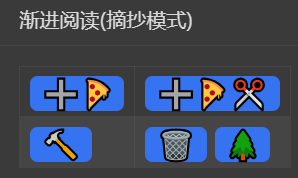
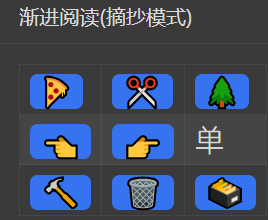
auto

diff --git a/README_zh_CN.md b/README_zh_CN.md
@@ -18,7 +18,7 @@
 
 阅读时为了尽量不打断阅读，可以先摘抄觉得好的内容，所摘抄的内容会在后续闪卡复习时出现。
 
-选中多行然后使用`Alt+Z -> ➕🍕` 或者 `Alt+Z -> ➕🍕✂ 按照标点断句`。
+选中多行然后使用`Alt+Z -> 🍕摘抄` 或者 `Alt+Z -> ✂ 摘抄并按照标点断句`。
 
 可对摘抄进行再摘抄，可无限套娃。
 
@@ -50,7 +50,16 @@
 
 推荐使用`番茄工具箱`的`toolbar`中的`闪卡按钮`。这种`tab`的方式复习闪卡，可以方便做摘抄。
 
-## 闪卡转移策略
+## 闪卡转移策略(多)
+
+每个摘抄都制卡。
+
+> `Alt+Z -> 🗃` 可以切换为`单`模式。
+> 每本书籍有自己的`闪卡转移策略`。
+
+## 闪卡转移策略(单)
+
+> `Alt+Z -> 🗃` 可以切换为`多`模式。
 
 每做一次摘抄都会维护摘抄的闪卡。
 
@@ -74,6 +83,12 @@
 
 > 新闪卡会自动点一次困难，并把到期时间拉回当前(与`番茄工具箱`的`阅读点`策略一致)，可立刻复习。
 > 此操作是为了，调整各个难度对应的，下次复习时间。
+
+## 打开上一个、下一个摘抄
+
+`Alt+Z -> 👈` `Alt+Z -> 👉`
+
+在某个摘抄上使用此功能，将打开原文上距离相近的摘抄。
 
 ## 清理已经完成的摘抄
 
@@ -382,6 +397,10 @@
 **[或者移步，爱发电](https://afdian.net/a/playerv5)**
 
 # 更新日志
+
+## 2024-04-13
+
+* 每本书单独设置是否保持只有一个摘抄是闪卡。默认每个摘抄都是闪卡。
 
 ## 2024-04-12
 
